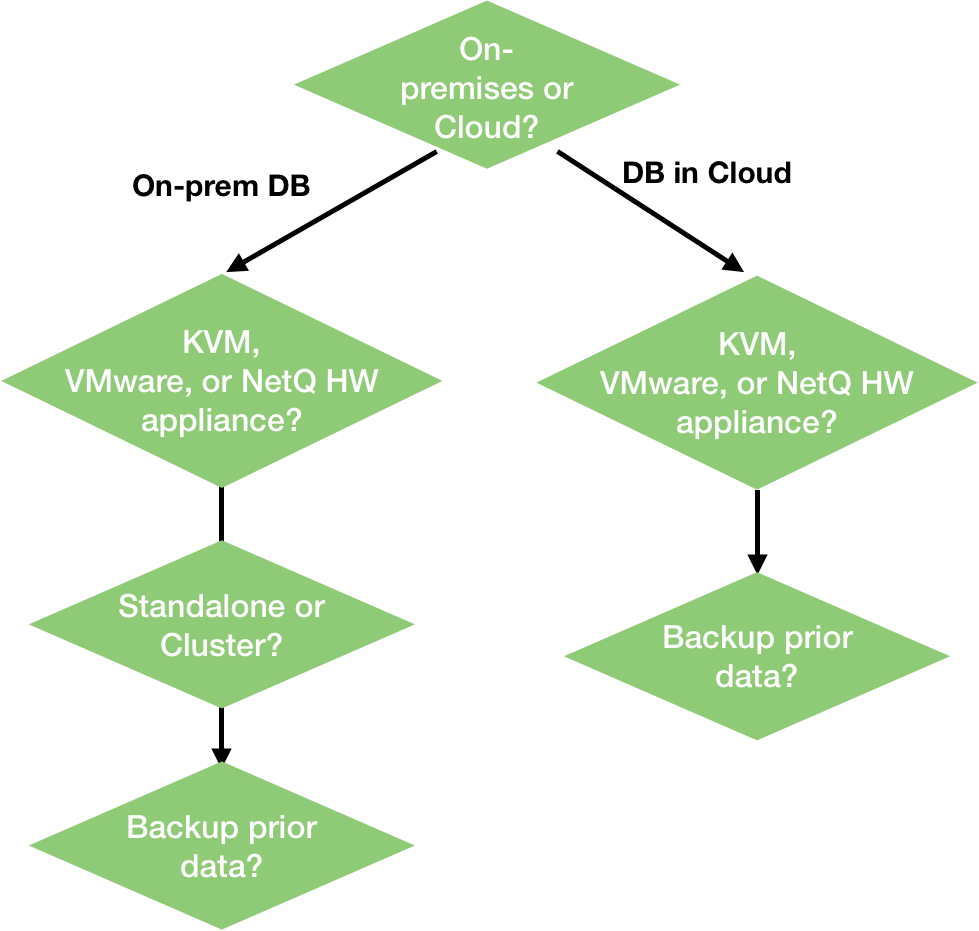
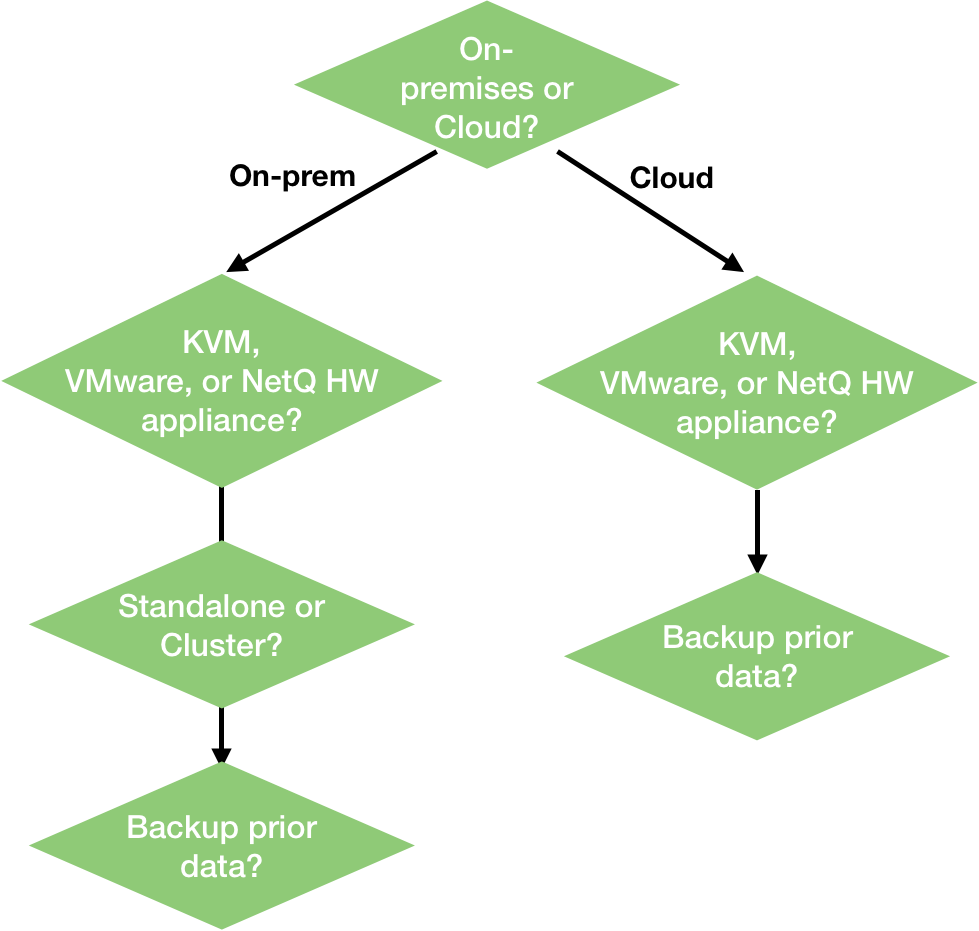
Faye comments

Changed region(s): [[0.6435, 0.1557, 0.8274, 0.218], [0.1226, 0.1557, 0.3677, 0.218]]

diff --git a/content/cumulus-netq/Cumulus-NetQ-Deployment-Guide/Install-NetQ/_index.md b/content/cumulus-netq/Cumulus-NetQ-Deployment-Guide/Install-NetQ/_index.md
@@ -15,20 +15,18 @@ siteSlug: cumulus-netq
 
 The complete Cumulus NetQ solution contains several components that must be installed, including the NetQ applications, the database, and the NetQ Agents. NetQ can be deployed in two arrangements:
 
-- All components installed locally, known hereafter as the on-premises solution
-- Only the aggregation and forwarding application installed locally and the database and all other applications installed remotely, known hereafter as the cloud solution
+- All components installed locally (the applications and database are installed as a single entity, called the NetQ Platform); known hereafter as the on-premises solution
+- Only the aggregation and forwarding application installed locally and the database and all other applications installed in the cloud; known hereafter as the cloud solution
 
 The NetQ Agents reside on the switches and hosts being monitored in your network.
 
-For the on-premises solution, the NetQ Agents collect and transmit data from the switches and/hosts back to the NetQ Platform, which in turn processes and stores the data in its database. This data is then provided for display in through several user interfaces.
+For the on-premises solution, the NetQ Agents collect and transmit data from the switches and/hosts back to the NetQ Platform, which in turn processes and stores the data in its database. This data is then provided for display through several user interfaces.
 
 {{< figure src="/images/netq/install-onprem-basic-240.png" width="600">}}
 
 For the cloud solution, the NetQ Agent function is exactly the same, transmitting collected data, but instead sends it to the NetQ Platform containing the aggregation and forwarding application. This platform then transmits this data to Cumulus Networks cloud-based infrastructure for further processing and storage. This data is then provided for display through the same user interfaces as the on-premises solution.
 
 {{< figure src="/images/netq/install-cloud-basic-240.png" width="700">}}
-
-No data is sent to Agents, only configuration and control commands.
 
 ## Installation Choices
 
